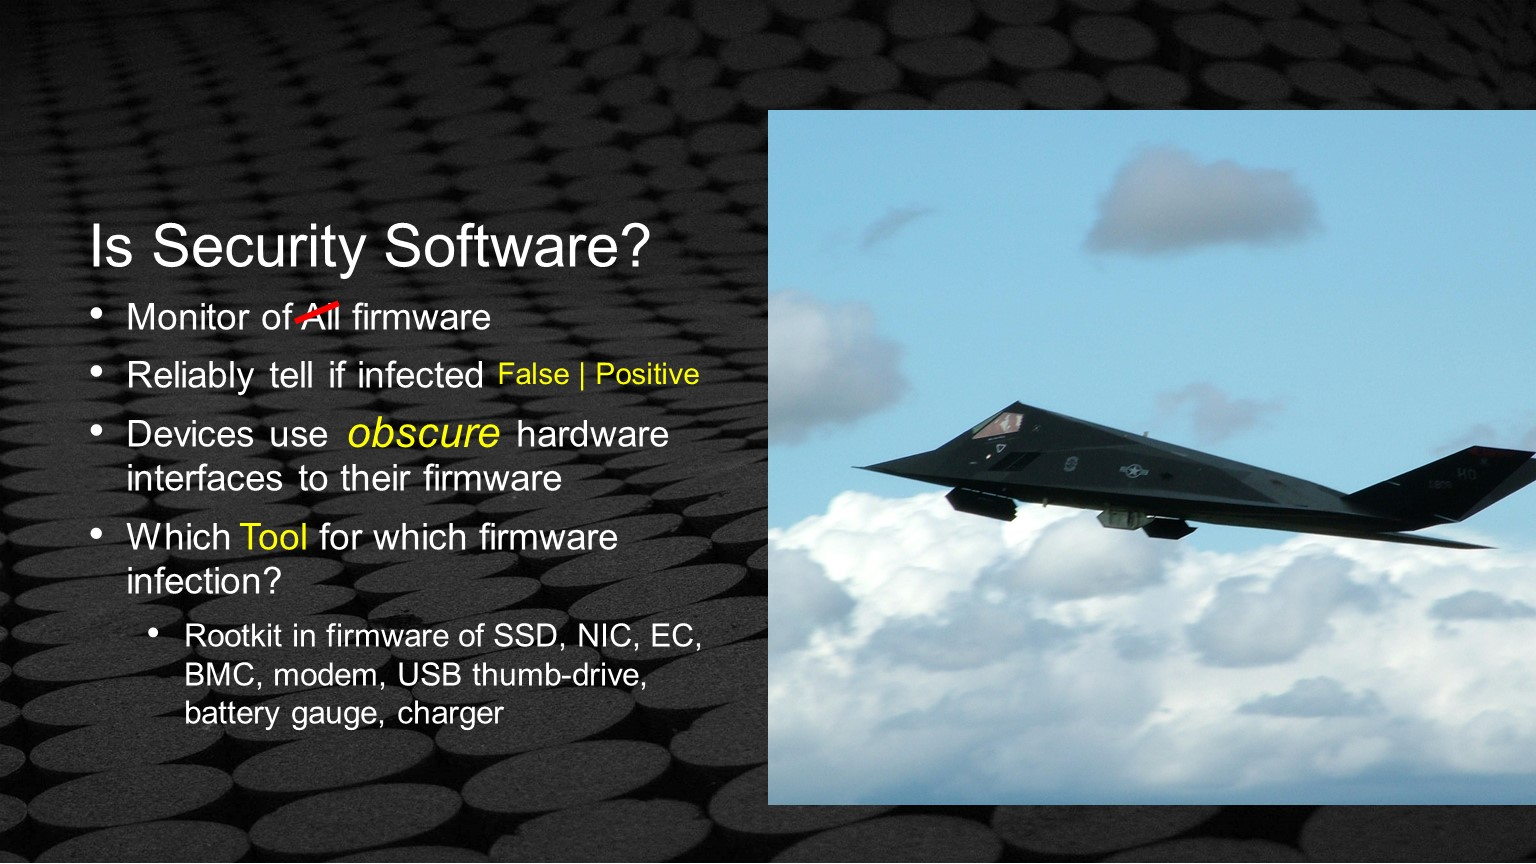
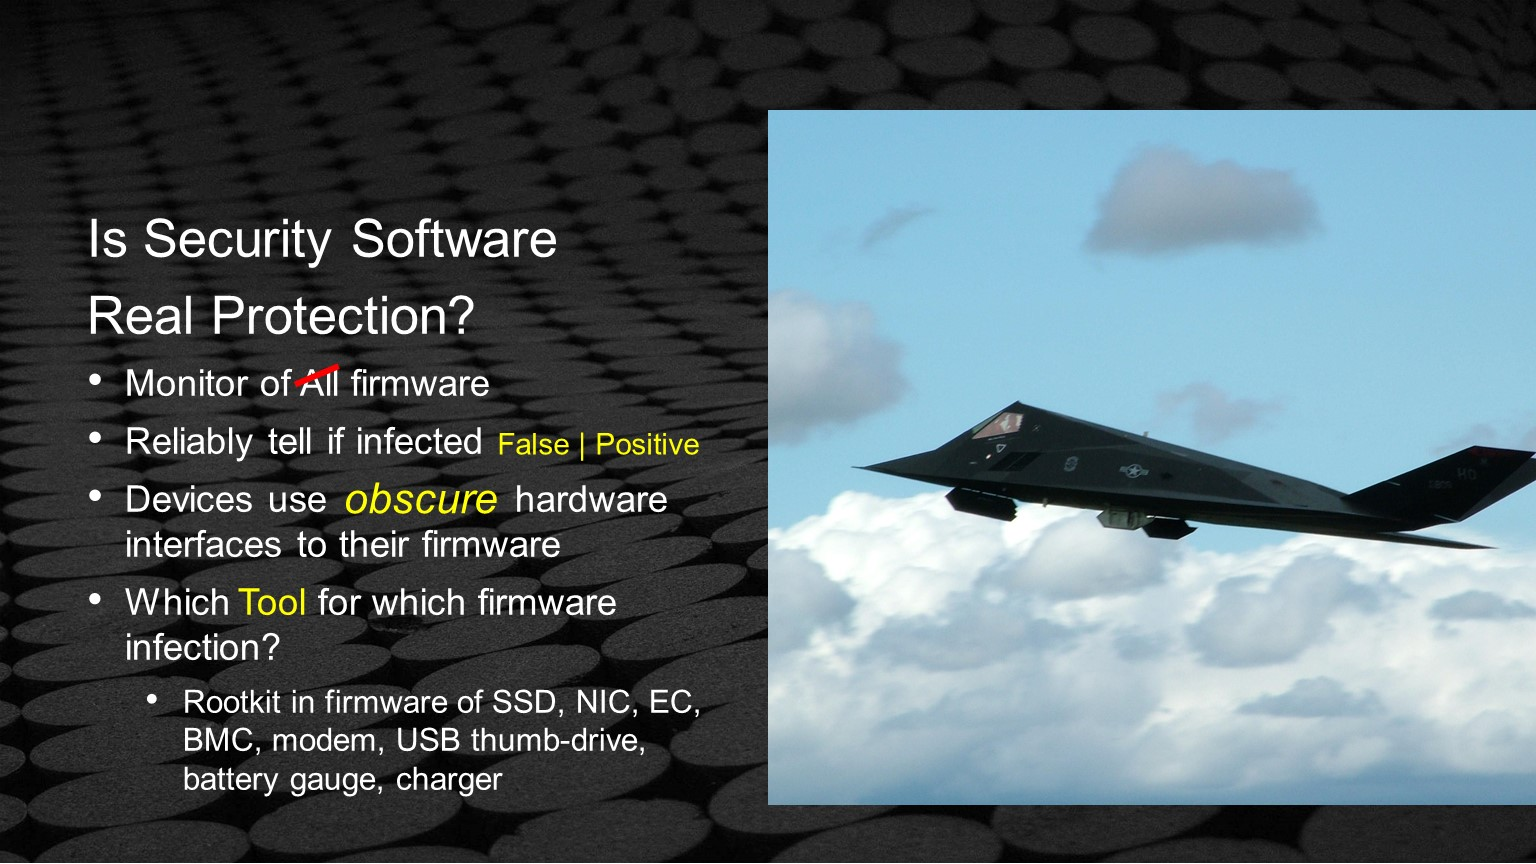
Signed-off-by: Laurie0131 <laurie.jarlstrom@intel.com>

Changed region(s): [[0.0625, 0.3438, 0.4688, 0.9375], [0.0625, 0.25, 0.4375, 0.3125]]

diff --git a/Presentations/UEFI_Boot_Flow.md b/Presentations/UEFI_Boot_Flow.md
@@ -180,7 +180,7 @@ Note:
 
 ---?image=/assets/images/slides/Slide63.JPG
 @title[Goals of security architecture and assets that are protected ]
-<p align="right"><span class="gold" ><b>Goals of security architecture and assets that are protected </b></span></p>
+<p align="right"><span class="gold" ><b>Goals of security architecture and assets<br> that are protected </b></span></p>
 <p align="right"><span style="font-size:0.5em" ><a href="http://csrc.nist.gov/publications/nistpubs/800-33/sp800-33.pdf">NIST SP 800-33</a> – IT Security Objectives </span></p>
 
 Note:
@@ -222,7 +222,7 @@ Note:
 <!-- .slide: data-background-transition="none" -->
 <!-- .slide: data-transition="none" -->
 @title[Goals of security architecture and assets that are protected  02]
-<p align="right"><span class="gold" ><b>Goals of security architecture and assets that are protected </b></span></p>
+<p align="right"><span class="gold" ><b>Goals of security architecture and assets<br> that are protected </b></span></p>
 <p align="right"><span style="font-size:0.5em" ><a href="http://csrc.nist.gov/publications/nistpubs/800-33/sp800-33.pdf">NIST SP 800-33</a> – IT Security Objectives </span></p>
 
 Note:
@@ -266,7 +266,7 @@ Note:
 <!-- .slide: data-background-transition="none" -->
 <!-- .slide: data-transition="none" -->
 @title[Goals of security architecture and assets that are protected  03]
-<p align="right"><span class="gold" ><b>Goals of security architecture and assets that are protected </b></span></p>
+<p align="right"><span class="gold" ><b>Goals of security architecture and assets <br>that are protected </b></span></p>
 <p align="right"><span style="font-size:0.5em" ><a href="http://csrc.nist.gov/publications/nistpubs/800-33/sp800-33.pdf">NIST SP 800-33</a> – IT Security Objectives </span></p>
 
 Note:

diff --git a/Presentations/Why.md b/Presentations/Why.md
@@ -501,7 +501,7 @@ Note:
 ---?image=/assets/images/slides/Slide25.JPG
 @title[In-the-wild Firmware Attacks]
 <br>
-<p align="left"><span class="gold" ><b>In-the-wild Firmware Attacks</b></span></p>
+<p align="left"><span class="gold" ><b>In-the-wild <br>Firmware Attacks</b></span></p>
 <div class="left1">
 <ul>
   <li><span style="font-size:0.8em" >Legacy Bootkits ( <a href="http://cdn5.esetstatic.com/eset/US/resources/docs/white-papers/white-papers-when-im-x64-bootkit-threat-evolution-2011.pdf">TDL4</a> , <a href="http://www.welivesecurity.com/wp-content/uploads/2013/04/gapz-bootkit-whitepaper.pdf">Gapz</a>. . .)</span>  </li>
@@ -603,6 +603,7 @@ Note:
 #### <p align="left"><span class="gold" ><b>Stealth</b></span></p>
 
 Note:
+#### Is Security Software real protection?
 
 - Stealth CC
 - https://farm1.staticflickr.com/8/7227778_c10e26cb79_o_d.jpg
